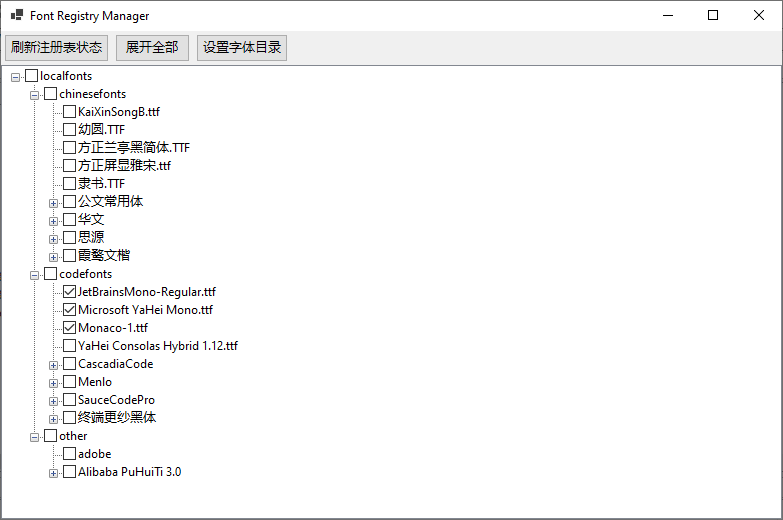
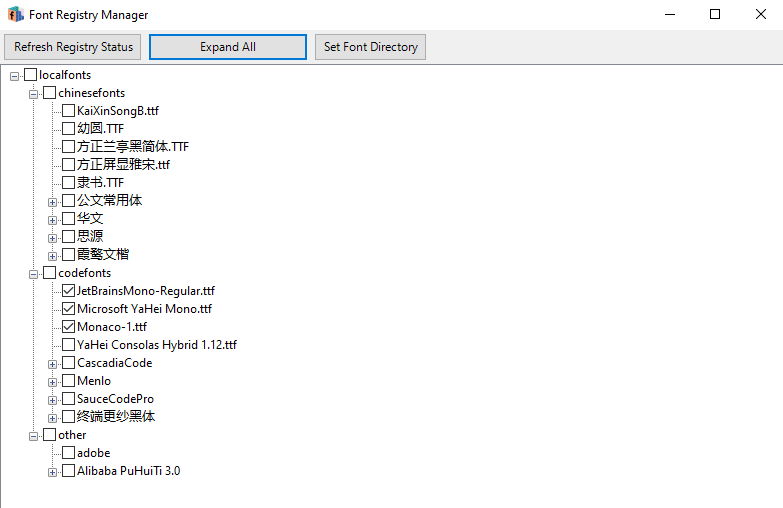
FontRegistryManager readme

Changed region(s): [[0.0, 0.0, 1.0, 1.0], [0.9502, 0.0, 1.0, 0.0591], [0.8889, 0.0, 0.9195, 0.0295]]

diff --git a/FontRegistryManager/Program.cs b/FontRegistryManager/Program.cs
@@ -20,12 +20,13 @@ public class FontManagerForm : Form
     private const string RegistryBase = "SOFTWARE\\Microsoft\\Windows NT\\CurrentVersion\\Fonts";
     private bool expandedAll = false;
 
-    // 正则表达式匹配字体文件
+    // Regex to match font files
     private static readonly Regex fontFileRegex = new Regex(@"\.(ttf|otf|ttc)$", RegexOptions.IgnoreCase | RegexOptions.Compiled);
 
     public FontManagerForm()
     {
         this.Text = "Font Registry Manager";
+        this.Icon = Icon.ExtractAssociatedIcon(Application.ExecutablePath);
         this.Width = 800;
         this.Height = 600;
 
@@ -38,54 +39,54 @@ public class FontManagerForm : Form
             AutoSize = true
         };
 
-        refreshButton = new Button { Text = "刷新注册表状态", AutoSize = true };
+        refreshButton = new Button { Text = "Refresh Registry Status", AutoSize = true };
         refreshButton.Click += (s, e) =>
         {
             fileTree.Nodes.Clear();
             LoadFontTree();
             ExpandToBeforeLeafFolders(fileTree.Nodes);
             expandedAll = false;
-            expandToggleButton.Text = "展开全部";
+            expandToggleButton.Text = "Expand All";
         };
 
-        expandToggleButton = new Button { Text = "展开全部", AutoSize = true };
+        expandToggleButton = new Button { Text = "Expand All", AutoSize = true };
         expandToggleButton.Click += (s, e) =>
         {
             if (expandedAll)
             {
                 fileTree.CollapseAll();
                 ExpandToBeforeLeafFolders(fileTree.Nodes);
-                expandToggleButton.Text = "展开全部";
+                expandToggleButton.Text = "Expand All";
                 expandedAll = false;
             }
             else
             {
                 fileTree.ExpandAll();
-                expandToggleButton.Text = "折叠到目录层";
+                expandToggleButton.Text = "Collapse to Directory Level";
                 expandedAll = true;
             }
         };
 
-        configButton = new Button { Text = "设置字体目录", AutoSize = true };
+        configButton = new Button { Text = "Set Font Directory", AutoSize = true };
         configButton.Click += (s, e) =>
         {
             using (var dialog = new FolderBrowserDialog())
             {
-                dialog.Description = "请选择字体目录";
+                dialog.Description = "Please select the font directory";
                 dialog.SelectedPath = fontRoot;
 
                 if (dialog.ShowDialog() == DialogResult.OK)
                 {
                     fontRoot = dialog.SelectedPath;
                     SaveFontRootToConfig(fontRoot);
-                    MessageBox.Show("字体目录已保存，目录树已刷新。", "设置成功", MessageBoxButtons.OK, MessageBoxIcon.Information);
+                    MessageBox.Show("Font directory saved and tree refreshed.", "Success", MessageBoxButtons.OK, MessageBoxIcon.Information);
 
-                    // 立即刷新目录树
+                    // Refresh immediately
                     fileTree.Nodes.Clear();
                     LoadFontTree();
                     ExpandToBeforeLeafFolders(fileTree.Nodes);
                     expandedAll = false;
-                    expandToggleButton.Text = "展开全部";
+                    expandToggleButton.Text = "Expand All";
                 }
             }
         };
@@ -151,7 +152,7 @@ public class FontManagerForm : Form
         DirectoryInfo rootDir = new DirectoryInfo(fontRoot);
         if (!rootDir.Exists)
         {
-            MessageBox.Show($"字体目录不存在：{fontRoot}", "错误", MessageBoxButtons.OK, MessageBoxIcon.Error);
+            MessageBox.Show($"Font directory does not exist: {fontRoot}", "Error", MessageBoxButtons.OK, MessageBoxIcon.Error);
             return;
         }
         TreeNode rootNode = CreateDirectoryNode(rootDir, regFontPaths);
@@ -306,7 +307,7 @@ public class FontManagerForm : Form
 
     private void DeleteRegistryKeyForDirectory(TreeNode node)
     {
-        // 已不再使用子键，无需删除目录项
+        // No need to delete directory key as subkeys are not used anymore
     }
 
     private void UpdateRegistryForFont(string fontPath, bool add)
@@ -364,7 +365,7 @@ public class FontManagerForm : Form
             }
             else
             {
-                node.Collapse(); // 不展开字体文件节点
+                node.Collapse(); // Do not expand font file nodes
             }
         }
     }
